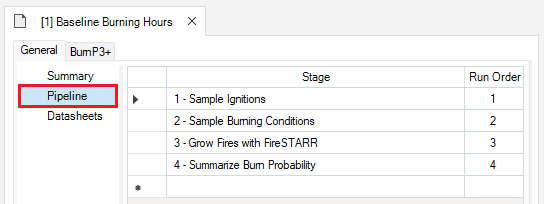
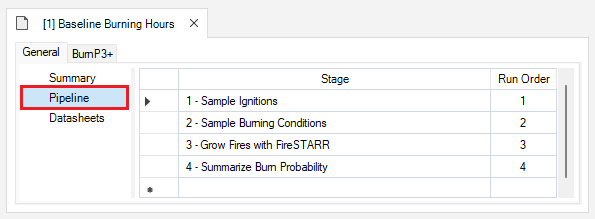
fix navigation pane

diff --git a/assets/main.scss b/assets/main.scss
@@ -128,6 +128,35 @@ a {
     display: block;
 }
 
+/* Nested nav indentation levels.
+   These use padding (not leading &emsp; characters) so that when a link's
+   text wraps onto a second line, the wrapped line stays aligned under the
+   first line instead of falling back to the left edge. */
+.sidenav a.lvl1 {
+    padding-left: 24px;
+}
+.sidenav a.lvl2 {
+    padding-left: 48px;
+}
+.sidenav a.lvl3 {
+    padding-left: 72px;
+}
+
+/* Collapsible nav group (e.g. Spatial FBP outputs) */
+.sidenav .sidenav-group summary {
+    list-style: none;
+    cursor: pointer;
+}
+.sidenav .sidenav-group summary::-webkit-details-marker {
+    display: none;
+}
+.sidenav .sidenav-group summary::marker {
+    content: "";
+}
+.sidenav .sidenav-group summary a {
+    padding-left: 48px;
+}
+
 
 // Indented text
 .indentation {

diff --git a/_scenarios/seciton4.md b/_scenarios/seciton4.md
@@ -10,62 +10,62 @@ permalink: reference/burn-p3-plus-scenario
     <li>Library</li>
     {% for section in site.library %}
         {% if section.section != page.section %}
-            <a href="{{site.baseurl}}{{ section.url }}"> &emsp;{{ section.title }} </a>
+            <a class="lvl1" href="{{site.baseurl}}{{ section.url }}">{{ section.title }}</a>
         {% else %}
-            <a class="selected" href="{{site.baseurl}}{{ section.url }}"> &emsp;{{ section.title }} </a>
+            <a class="selected lvl1" href="{{site.baseurl}}{{ section.url }}">{{ section.title }}</a>
         {% endif %}
     {% endfor %}
     <li>Project</li>
     {% for section in site.project %}
         {% if section.section != page.section %}
-            <a href="{{site.baseurl}}{{ section.url }}"> &emsp;{{ section.title }} </a>
+            <a class="lvl1" href="{{site.baseurl}}{{ section.url }}">{{ section.title }}</a>
         {% else %}
-            <a class="selected" href="{{site.baseurl}}{{ section.url }}"> &emsp;{{ section.title }} </a>
+            <a class="selected lvl1" href="{{site.baseurl}}{{ section.url }}">{{ section.title }}</a>
         {% endif %}
     {% endfor %}
     <li>Scenario</li>
     {% for section in site.scenarios %}
         {% if section.section != page.section %}
-            <a href="{{site.baseurl}}{{ section.url }}"> &emsp;{{ section.title }} </a>
+            <a class="lvl1" href="{{site.baseurl}}{{ section.url }}">{{ section.title }}</a>
         {% else %}
-            <a class="selected" href="{{site.baseurl}}{{ section.url }}"> &emsp;{{ section.title }} </a>
-            <a href="#heading01"> &emsp;&emsp;&emsp;Run Control</a>
-            <a href="#heading02"> &emsp;&emsp;&emsp;Landscape Maps</a>
-            <a href="#heading03"> &emsp;&emsp;&emsp;Ignition Count</a>
-            <a href="#heading04"> &emsp;&emsp;&emsp;Ignition Location</a>
-            <a href="#heading05"> &emsp;&emsp;&emsp;Ignition Restrictions</a>
-            <a href="#heading06"> &emsp;&emsp;&emsp;Ignition Distribution</a>
-            <a href="#heading07"> &emsp;&emsp;&emsp;Spread Event Days</a>
-            <a href="#heading08"> &emsp;&emsp;&emsp;Daily Burning Hours</a>
-            <a href="#heading09"> &emsp;&emsp;&emsp;Daily Weather</a>
-            <a href="#heading10"> &emsp;&emsp;&emsp;Weather Sampling Options</a>
-            <a href="#heading11"> &emsp;&emsp;&emsp;Green Up</a>
-            <a href="#heading12"> &emsp;&emsp;&emsp;Curing</a>
-            <a href="#heading13"> &emsp;&emsp;&emsp;Wind Grid</a>
-            <a href="#heading14"> &emsp;&emsp;&emsp;Tabular</a>
-            <a href="#heading15"> &emsp;&emsp;&emsp;Spatial</a>
+            <a class="selected lvl1" href="{{site.baseurl}}{{ section.url }}">{{ section.title }}</a>
+            <a class="lvl2" href="#heading01">Run Control</a>
+            <a class="lvl2" href="#heading02">Landscape Maps</a>
+            <a class="lvl2" href="#heading03">Ignition Count</a>
+            <a class="lvl2" href="#heading04">Ignition Location</a>
+            <a class="lvl2" href="#heading05">Ignition Restrictions</a>
+            <a class="lvl2" href="#heading06">Ignition Distribution</a>
+            <a class="lvl2" href="#heading07">Spread Event Days</a>
+            <a class="lvl2" href="#heading08">Daily Burning Hours</a>
+            <a class="lvl2" href="#heading09">Daily Weather</a>
+            <a class="lvl2" href="#heading10">Weather Sampling Options</a>
+            <a class="lvl2" href="#heading11">Green Up</a>
+            <a class="lvl2" href="#heading12">Curing</a>
+            <a class="lvl2" href="#heading13">Wind Grid</a>
+            <a class="lvl2" href="#heading14">Tabular</a>
+            <a class="lvl2" href="#heading15">Spatial</a>
             <details class="sidenav-group">
-                <summary><a href="#heading21"> &emsp;&emsp;&emsp;Spatial FBP</a></summary>
-                <a href="#heading22"> &emsp;&emsp;&emsp;&emsp;&emsp;Output Rate of Spread Map</a>
-                <a href="#heading23"> &emsp;&emsp;&emsp;&emsp;&emsp;Output Rate of Spread Summary Map</a>
-                <a href="#heading24"> &emsp;&emsp;&emsp;&emsp;&emsp;Output Fire Intensity Map</a>
-                <a href="#heading25"> &emsp;&emsp;&emsp;&emsp;&emsp;Output Fire Intensity Summary Map</a>
-                <a href="#heading26"> &emsp;&emsp;&emsp;&emsp;&emsp;Output Spread Direction Map</a>
-                <a href="#heading27"> &emsp;&emsp;&emsp;&emsp;&emsp;Output Spread Direction Summary Map</a>
-                <a href="#heading28"> &emsp;&emsp;&emsp;&emsp;&emsp;Output Surface Fuel Consumption Map</a>
-                <a href="#heading29"> &emsp;&emsp;&emsp;&emsp;&emsp;Output Surface Fuel Consumption Summary Map</a>
-                <a href="#heading30"> &emsp;&emsp;&emsp;&emsp;&emsp;Output Crown Fraction Burned Map</a>
-                <a href="#heading31"> &emsp;&emsp;&emsp;&emsp;&emsp;Output Crown Fraction Burned Summary Map</a>
-                <a href="#heading32"> &emsp;&emsp;&emsp;&emsp;&emsp;Output Crown Fraction Consumed Map</a>
-                <a href="#heading33"> &emsp;&emsp;&emsp;&emsp;&emsp;Output Crown Fraction Consumed Summary Map</a>
-                <a href="#heading34"> &emsp;&emsp;&emsp;&emsp;&emsp;Output Total Fuel Consumption Map</a>
-                <a href="#heading35"> &emsp;&emsp;&emsp;&emsp;&emsp;Output Total Fuel Consumption Summary Map</a>
+                <summary><a class="lvl2" href="#heading21">Spatial FBP</a></summary>
+                <a class="lvl3" href="#heading22">Output Rate of Spread Map</a>
+                <a class="lvl3" href="#heading23">Output Rate of Spread Summary Map</a>
+                <a class="lvl3" href="#heading24">Output Fire Intensity Map</a>
+                <a class="lvl3" href="#heading25">Output Fire Intensity Summary Map</a>
+                <a class="lvl3" href="#heading26">Output Spread Direction Map</a>
+                <a class="lvl3" href="#heading27">Output Spread Direction Summary Map</a>
+                <a class="lvl3" href="#heading28">Output Surface Fuel Consumption Map</a>
+                <a class="lvl3" href="#heading29">Output Surface Fuel Consumption Summary Map</a>
+                <a class="lvl3" href="#heading30">Output Crown Fraction Burned Map</a>
+                <a class="lvl3" href="#heading31">Output Crown Fraction Burned Summary Map</a>
+                <a class="lvl3" href="#heading32">Output Crown Fraction Consumed Map</a>
+                <a class="lvl3" href="#heading33">Output Crown Fraction Consumed Summary Map</a>
+                <a class="lvl3" href="#heading34">Output Total Fuel Consumption Map</a>
+                <a class="lvl3" href="#heading35">Output Total Fuel Consumption Summary Map</a>
             </details>
-            <a href="#heading16"> &emsp;&emsp;&emsp;Deterministic Ignition Location</a>
-            <a href="#heading17"> &emsp;&emsp;&emsp;Deterministic Burn Conditions</a>
-            <a href="#heading18"> &emsp;&emsp;&emsp;Fire Resampling Options</a>
-            <a href="#heading19"> &emsp;&emsp;&emsp;Distributions</a>
-            <a href="#heading20"> &emsp;&emsp;&emsp;Output Fire Statistics Table</a>
+            <a class="lvl2" href="#heading16">Deterministic Ignition Location</a>
+            <a class="lvl2" href="#heading17">Deterministic Burn Conditions</a>
+            <a class="lvl2" href="#heading18">Fire Resampling Options</a>
+            <a class="lvl2" href="#heading19">Distributions</a>
+            <a class="lvl2" href="#heading20">Output Fire Statistics Table</a>
         {% endif %}
     {% endfor %}
 </div>

diff --git a/getting_started.md b/getting_started.md
@@ -3,14 +3,14 @@ layout: default
 title: Getting started
 ---
 
-# BurnP3PlusFireSTARR Quickstart Tutorial**
+# **BurnP3PlusFireSTARR Quickstart Tutorial**
 
 ### Here we provide a guided tutorial on **BurnP3+**, an open-source package for running spatially-explicit fire growth models to explore fire risk and susceptibility across a landscape. 
 
 **BurnP3+** was designed to update and replace [Burn-P3](https://firegrowthmodel.ca/#/burnp3_overview){:target="_blank"} ([Parisien *et al.* 2005](https://ostrnrcan-dostrncan.canada.ca/entities/publication/18cdf7dd-2488-4df4-8cc7-62fb1eebf9ed){:target="_blank"}) and was developed jointly by National Resources Canada (NRCan) and ApexRMS as an open-source package within the [SyncroSim](https://syncrosim.com/){:target="_blank"} software framework. Throughout the Quickstart tutorial links will be provided to the SyncroSim [online documentation](https://docs.syncrosim.com){:target="_blank"} where applicable. For more on SyncroSim, please refer to the SyncroSim [Overview](https://docs.syncrosim.com/getting_started/overview.html){:target="_blank"} and [Quickstart tutorial](https://docs.syncrosim.com/getting_started/quickstart.html){:target="_blank"}.
 
 This tutorial was built using the following software versions:
-* SyncroSim version 3.0.9
+* SyncroSim version 3.1.29
 * burnP3Plus version 2.6.11
 * burnP3PlusFireSTARR 1.5.7
 
@@ -42,7 +42,7 @@ In this Quickstart tutorial, you will run the **BurnP3+** and [BurnP3+FireSTARR]
 
 To install the **BurnP3+** and **BurnP3+FireSTARR** packages, open SyncroSim Studio (**Start > SyncroSim Studio**) and select **File > Local Packages**. 
 
-<img align="middle" style="padding: 3px" width="600" src="assets/getting_started_images/BurnP3Plus-screenshot-1.1.png">
+<img align="middle" style="padding: 3px" width="400" src="assets/getting_started_images/BurnP3Plus-screenshot-1.1.png">
 
 Click on the **Install from Server...** button.
 
@@ -80,7 +80,7 @@ To open the **FireSTARR** template library in SyncroSim Studio:
 
     <img align="middle" style="padding: 3px" width="600" src="assets/getting_started_images/BurnP3Plus-screenshot-2.1.png">
 
-2. Select the **burnP3PlusFireSTARR** (version 1.5.7) package. There are two templates available: the *BurnP3PlusFireSTARR Quickstart Tutorial* and the *BurnP3Plus FireSTARR Example*. For this walkthrough, select the *BurnP3PlusFireSTARR Quickstart Tutorial* template library, choose a folder to save it, and click **OK**.
+2. Select the **burnP3PlusFireSTARR** (version 1.5.7) package. There are two templates available: the *BurnP3PlusFireSTARR Quickstart Tutorial* and the *Glacier Example (FireSTARR)*. For this walkthrough, select the *BurnP3PlusFireSTARR Quickstart Tutorial* template library, choose a folder to save it, and click **OK**.
 
     <img align="middle" style="padding: 3px" width="600" src="assets/getting_started_images/BurnP3Plus-screenshot-2.2.png"> 
 
@@ -196,11 +196,11 @@ After reviewing the model inputs and creating a new scenario, you are now ready 
 
 You can enable and adjust the number of **Multiprocessing** jobs according to the specifications of your computer. A good rule of thumb to follow is number of logical cores minus 1.
 
-<img align="middle" style="padding: 3px" width="500" src="assets/getting_started_images/multi.png">
+<img align="middle" style="padding: 3px" width="600" src="assets/getting_started_images/multi.png">
 
 Next, click on the **Baseline Burning Hours** scenario, and from the main tool menu select the green triangle **(Run)**. If prompted to save your project, click **Yes**.
 
-<img align="middle" style="padding: 3px" width="500" src="assets/getting_started_images/BurnP3Plus-screenshot-4.5.png">
+<img align="middle" style="padding: 3px" width="400" src="assets/getting_started_images/BurnP3Plus-screenshot-4.5.png">
 
 A **Run Monitor** window will appear, indicating the **Status** of the scenario as **Running**. At the bottom of the SyncroSim Studio window, an orange progress bar will provide further information during each stage of the pipeline. 
 
@@ -233,7 +233,7 @@ Next, navigate to the **Maps** tab and double-click on **Burn Probability**.
 Lastly, navigate to the **Maps** tab and double-click on **Burn Maps**. Scroll through burn maps for different iterations by changing the **Iteration** on the top tool bar in the map window.
 
 <img align="middle" style="padding: 3px" width="600" src="assets/getting_started_images/BurnP3Plus-screenshot-5.4.png">
-<img align="middle" style="padding: 3px" width="600" src="assets/getting_started_images/BurnP3Plus-screenshot-5.5.png">
+
 
 To export spatial outputs directly to disk, navigate to the **Export** tab in the results panel, select the variable of interest, and double-click to choose a destination folder.
 

diff --git a/_project/seciton1.md b/_project/seciton1.md
@@ -10,31 +10,31 @@ permalink: reference/burn-p3-plus
     <li>Library</li>
     {% for section in site.library %}
         {% if section.section != page.section %}
-            <a href="{{site.baseurl}}{{ section.url }}"> &emsp;{{ section.title }} </a>
+            <a class="lvl1" href="{{site.baseurl}}{{ section.url }}">{{ section.title }}</a>
         {% else %}
-            <a class="selected" href="{{site.baseurl}}{{ section.url }}"> &emsp;{{ section.title }} </a>
+            <a class="selected lvl1" href="{{site.baseurl}}{{ section.url }}">{{ section.title }}</a>
         {% endif %}
     {% endfor %}
     <li>Project</li>
     {% for section in site.project %}
         {% if section.section != page.section %}
-            <a href="{{site.baseurl}}{{ section.url }}"> &emsp;{{ section.title }} </a>
+            <a class="lvl1" href="{{site.baseurl}}{{ section.url }}">{{ section.title }}</a>
         {% else %}
-            <a class="selected" href="{{site.baseurl}}{{ section.url }}"> &emsp;{{ section.title }} </a>
-            <a href="#heading01"> &emsp;&emsp;&emsp;Fuel Types</a>
-            <a href="#heading02"> &emsp;&emsp;&emsp;Seasons</a>
-            <a href="#heading03"> &emsp;&emsp;&emsp;Causes</a>
-            <a href="#heading04"> &emsp;&emsp;&emsp;Fire Zones</a>
-            <a href="#heading05"> &emsp;&emsp;&emsp;Weather Zones</a>
-            <a href="#heading06"> &emsp;&emsp;&emsp;Distributions</a>
+            <a class="selected lvl1" href="{{site.baseurl}}{{ section.url }}">{{ section.title }}</a>
+            <a class="lvl2" href="#heading01">Fuel Types</a>
+            <a class="lvl2" href="#heading02">Seasons</a>
+            <a class="lvl2" href="#heading03">Causes</a>
+            <a class="lvl2" href="#heading04">Fire Zones</a>
+            <a class="lvl2" href="#heading05">Weather Zones</a>
+            <a class="lvl2" href="#heading06">Distributions</a>
         {% endif %}
     {% endfor %}
     <li>Scenario</li>
     {% for section in site.scenarios %}
         {% if section.section != page.section %}
-            <a href="{{site.baseurl}}{{ section.url }}"> &emsp;{{ section.title }} </a>
+            <a class="lvl1" href="{{site.baseurl}}{{ section.url }}">{{ section.title }}</a>
         {% else %}
-            <a class="selected" href="{{site.baseurl}}{{ section.url }}"> &emsp;{{ section.title }} </a>
+            <a class="selected lvl1" href="{{site.baseurl}}{{ section.url }}">{{ section.title }}</a>
         {% endif %}
     {% endfor %}
 </div>

diff --git a/_library/library0.md b/_library/library0.md
@@ -10,25 +10,26 @@ permalink: reference/batch-burns
     <li>Library</li>
     {% for section in site.library %}
         {% if section.section != page.section %}
-            <a href="{{site.baseurl}}{{ section.url }}"> &emsp;{{ section.title }} </a>
+            <a class="lvl1" href="{{site.baseurl}}{{ section.url }}">{{ section.title }}</a>
         {% else %}
-            <a class="selected" href="{{site.baseurl}}{{ section.url }}"> &emsp;{{ section.title }} </a>
+            <a class="selected lvl1" href="{{site.baseurl}}{{ section.url }}">{{ section.title }}</a>
+            <a class="lvl2" href="#heading01">Batch Burns</a>
         {% endif %}
     {% endfor %}
     <li>Project</li>
     {% for section in site.project %}
         {% if section.section != page.section %}
-            <a href="{{site.baseurl}}{{ section.url }}"> &emsp;{{ section.title }} </a>
+            <a class="lvl1" href="{{site.baseurl}}{{ section.url }}">{{ section.title }}</a>
         {% else %}
-            <a class="selected" href="{{site.baseurl}}{{ section.url }}"> &emsp;{{ section.title }} </a>
+            <a class="selected lvl1" href="{{site.baseurl}}{{ section.url }}">{{ section.title }}</a>
         {% endif %}
     {% endfor %}
     <li>Scenario</li>
     {% for section in site.scenarios %}
         {% if section.section != page.section %}
-            <a href="{{site.baseurl}}{{ section.url }}"> &emsp;{{ section.title }} </a>
+            <a class="lvl1" href="{{site.baseurl}}{{ section.url }}">{{ section.title }}</a>
         {% else %}
-            <a class="selected" href="{{site.baseurl}}{{ section.url }}"> &emsp;{{ section.title }} </a>
+            <a class="selected lvl1" href="{{site.baseurl}}{{ section.url }}">{{ section.title }}</a>
         {% endif %}
     {% endfor %}
 </div>
@@ -39,7 +40,7 @@ In SyncroSim Studio, the following *library datasheet* can be accessed by right-
 
 <br>
 
-## **Batch Burns**
+<p id="heading01"> <h2><b>Batch Burns</b></h2> </p>
 
 **Datasheet internal name:** burnP3Plus_BatchOption
 

diff --git a/_project/seciton2.md b/_project/seciton2.md
@@ -10,26 +10,26 @@ permalink: reference/prometheus
     <li>Library</li>
     {% for section in site.library %}
         {% if section.section != page.section %}
-            <a href="{{site.baseurl}}{{ section.url }}"> &emsp;{{ section.title }} </a>
+            <a class="lvl1" href="{{site.baseurl}}{{ section.url }}">{{ section.title }}</a>
         {% else %}
-            <a class="selected" href="{{site.baseurl}}{{ section.url }}"> &emsp;{{ section.title }} </a>
+            <a class="selected lvl1" href="{{site.baseurl}}{{ section.url }}">{{ section.title }}</a>
         {% endif %}
     {% endfor %}
     <li>Project</li>
     {% for section in site.project %}
         {% if section.section != page.section %}
-            <a href="{{site.baseurl}}{{ section.url }}"> &emsp;{{ section.title }} </a>
+            <a class="lvl1" href="{{site.baseurl}}{{ section.url }}">{{ section.title }}</a>
         {% else %}
-            <a class="selected" href="{{site.baseurl}}{{ section.url }}"> &emsp;{{ section.title }} </a>
-            <a href="#heading01"> &emsp;&emsp;&emsp;Prometheus Crosswalk</a>
+            <a class="selected lvl1" href="{{site.baseurl}}{{ section.url }}">{{ section.title }}</a>
+            <a class="lvl2" href="#heading01">Prometheus Crosswalk</a>
         {% endif %}
     {% endfor %}
     <li>Scenario</li>
     {% for section in site.scenarios %}
         {% if section.section != page.section %}
-            <a href="{{site.baseurl}}{{ section.url }}"> &emsp;{{ section.title }} </a>
+            <a class="lvl1" href="{{site.baseurl}}{{ section.url }}">{{ section.title }}</a>
         {% else %}
-            <a class="selected" href="{{site.baseurl}}{{ section.url }}"> &emsp;{{ section.title }} </a>
+            <a class="selected lvl1" href="{{site.baseurl}}{{ section.url }}">{{ section.title }}</a>
         {% endif %}
     {% endfor %}
 </div>

diff --git a/_project/seciton3.md b/_project/seciton3.md
@@ -10,26 +10,26 @@ permalink: reference/fire-starr
     <li>Library</li>
     {% for section in site.library %}
         {% if section.section != page.section %}
-            <a href="{{site.baseurl}}{{ section.url }}"> &emsp;{{ section.title }} </a>
+            <a class="lvl1" href="{{site.baseurl}}{{ section.url }}">{{ section.title }}</a>
         {% else %}
-            <a class="selected" href="{{site.baseurl}}{{ section.url }}"> &emsp;{{ section.title }} </a>
+            <a class="selected lvl1" href="{{site.baseurl}}{{ section.url }}">{{ section.title }}</a>
         {% endif %}
     {% endfor %}
     <li>Project</li>
     {% for section in site.project %}
         {% if section.section != page.section %}
-            <a href="{{site.baseurl}}{{ section.url }}"> &emsp;{{ section.title }} </a>
+            <a class="lvl1" href="{{site.baseurl}}{{ section.url }}">{{ section.title }}</a>
         {% else %}
-            <a class="selected" href="{{site.baseurl}}{{ section.url }}"> &emsp;{{ section.title }} </a>
-            <a href="#heading01"> &emsp;&emsp;&emsp;FireSTARR Crosswalk</a>
+            <a class="selected lvl1" href="{{site.baseurl}}{{ section.url }}">{{ section.title }}</a>
+            <a class="lvl2" href="#heading01">FireSTARR Crosswalk</a>
         {% endif %}
     {% endfor %}
     <li>Scenario</li>
     {% for section in site.scenarios %}
         {% if section.section != page.section %}
-            <a href="{{site.baseurl}}{{ section.url }}"> &emsp;{{ section.title }} </a>
+            <a class="lvl1" href="{{site.baseurl}}{{ section.url }}">{{ section.title }}</a>
         {% else %}
-            <a class="selected" href="{{site.baseurl}}{{ section.url }}"> &emsp;{{ section.title }} </a>
+            <a class="selected lvl1" href="{{site.baseurl}}{{ section.url }}">{{ section.title }}</a>
         {% endif %}
     {% endfor %}
 </div>
